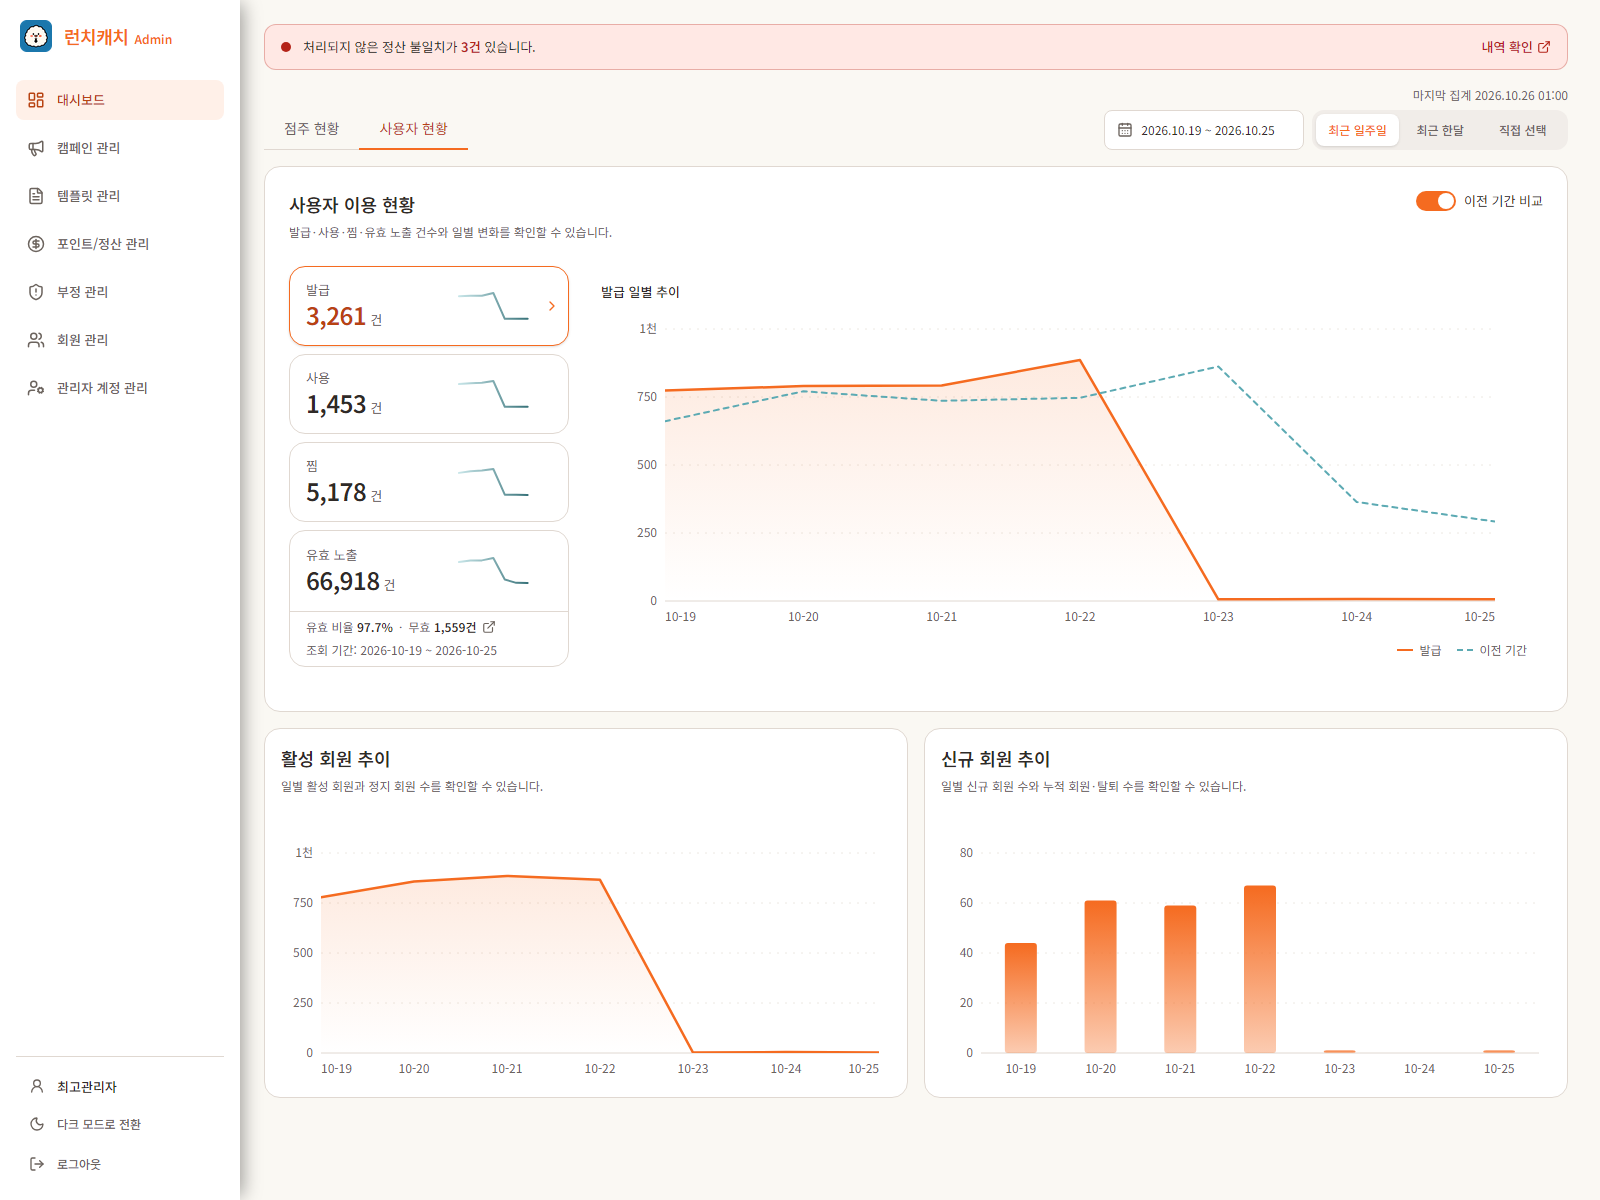
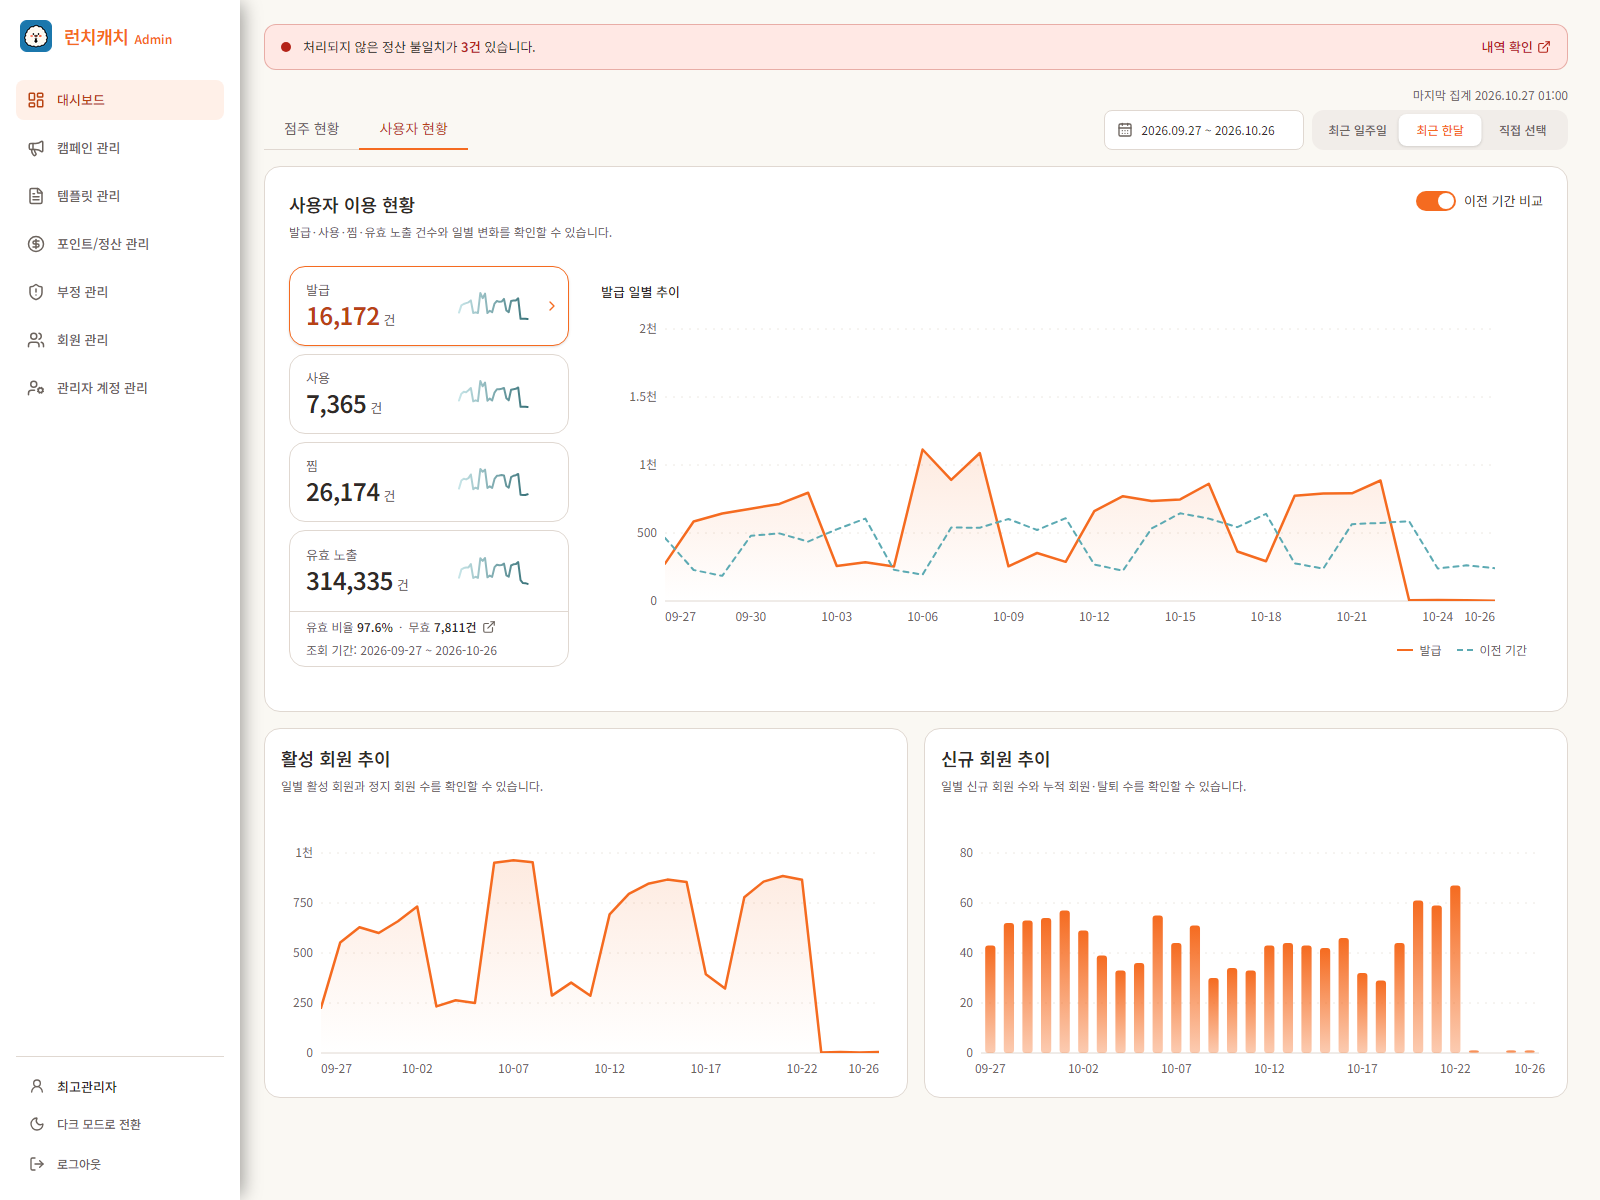
docs: 관리자 화면 캡처 구성과 조회 기간 개선

diff --git a/apps/admin/README.md b/apps/admin/README.md
@@ -57,15 +57,15 @@
 
 ## 화면 미리보기
 
-아래 이미지는 **2026.10.26 개발 서버의 실제 화면을 라이트 모드**로 캡처한 예시입니다. 지표·목록·정책 값은 테스트 데이터이며, 조회 기간과 서버 상태에 따라 달라집니다.
+아래 이미지는 **2026.10.26~27 개발 서버의 실제 화면을 라이트 모드**로 캡처한 예시입니다. 지표·목록·정책 값은 테스트 데이터이며, 조회 기간과 서버 상태에 따라 달라집니다. 화면별 항목은 기본으로 펼쳐져 있으며 필요하면 접을 수 있습니다.
 
 ### 대시보드
 
-점주 현황에서는 소진액·충전액·환불액·조정액과 매출·충전, 활성 캠페인, 신규 입점 추이를 확인합니다. 차트의 날짜별 툴팁에서 보조 지표를 함께 조회할 수 있습니다.
+점주 현황에서는 소진액·충전액·환불액·조정액과 매출·충전, 활성 캠페인, 신규 입점 추이를 확인합니다. 차트의 날짜별 툴팁에서 보조 지표를 함께 조회할 수 있습니다. 아래 대시보드 캡처는 모두 최근 한달을 조회한 화면입니다.
 
 ![점주 현황 대시보드의 주요 지표와 매출·캠페인·입점 추이](./docs/screenshots/dashboard-owners.png)
 
-<details>
+<details open>
 <summary>사용자 현황 대시보드 보기</summary>
 
 사용자 현황에서는 발급·사용·찜·유효 노출 지표와 이용 추이, 활성 회원·신규 회원 추이를 확인합니다. 최근 일주일·최근 한달 또는 직접 선택한 기간을 조회하고 이전 기간과 비교합니다.
@@ -86,9 +86,9 @@
 
 ### 다른 관리 화면
 
-메뉴를 펼치면 설명과 화면 캡처를 확인할 수 있습니다.
+아래에서 각 메뉴의 설명과 화면 캡처를 확인할 수 있습니다.
 
-<details>
+<details open>
 <summary>캠페인 관리</summary>
 
 검색과 상태 필터로 캠페인을 찾고, 행을 선택해 상세 정보와 실적을 확인합니다. 다음 데이터는 더 불러오기로 조회합니다.
@@ -97,7 +97,7 @@
 
 </details>
 
-<details>
+<details open>
 <summary>회원 관리 · 점주 / 사용자</summary>
 
 점주와 사용자를 탭으로 구분하고 가입일, 계정 상태 등으로 조회합니다.
@@ -108,7 +108,7 @@
 
 </details>
 
-<details>
+<details open>
 <summary>포인트 / 정산 관리 · 정산 검증 / 포인트 변동 내역 / 충전 정책</summary>
 
 정산 검증에서 불일치 항목과 차액·처리 상태를 조회하고 상세 패널에서 원인에 따라 포인트 정정 또는 조정 없는 종결을 진행합니다. 같은 메뉴에서 환불 요청과 결제 내역도 관리합니다.
@@ -133,7 +133,7 @@
 
 </details>
 
-<details>
+<details open>
 <summary>부정 관리 · 무효 노출 / 캠페인 경고</summary>
 
 무효 노출의 사유·건수를 조회합니다. 화면에서 만료·알 수 없는 노출, 다른 회원의 노출에 대한 설명과 과금 제외 안내를 확인할 수 있습니다. 조회 기간은 양끝 날짜를 포함해 최대 31일입니다.
@@ -146,7 +146,7 @@
 
 </details>
 
-<details>
+<details open>
 <summary>관리자 계정 관리</summary>
 
 활성 관리자 계정의 이름과 권한을 조회하고, 허용된 권한으로 계정을 발급합니다.
